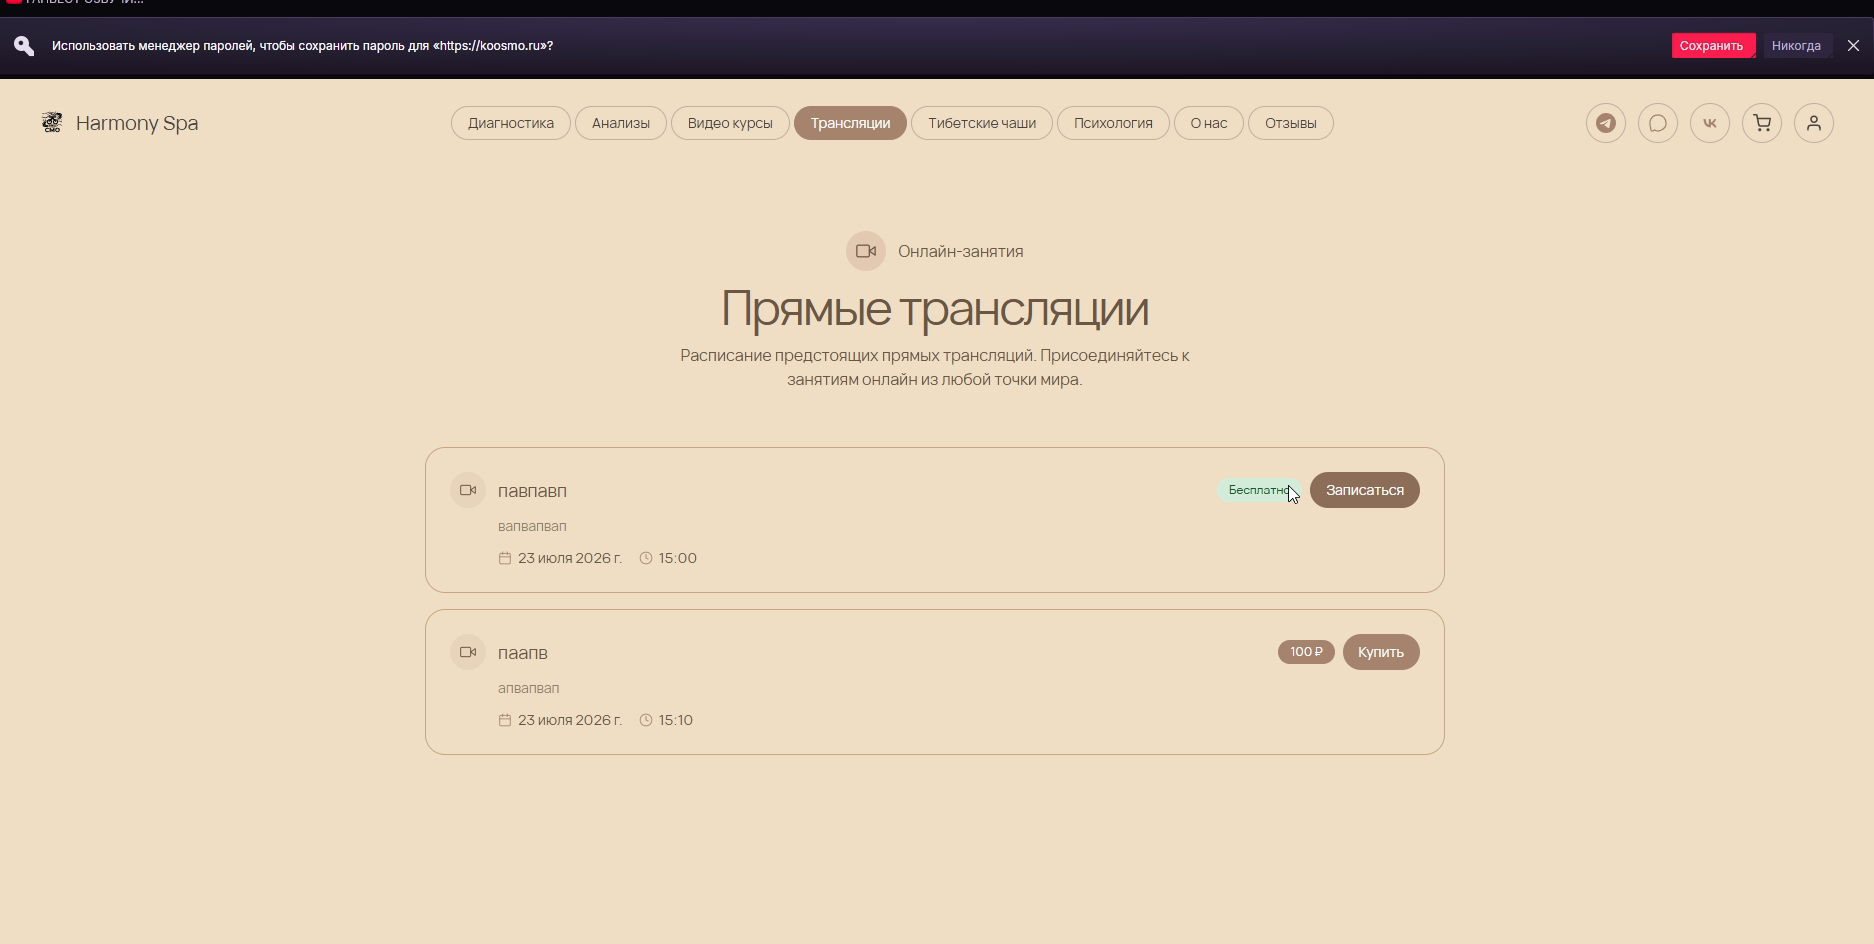
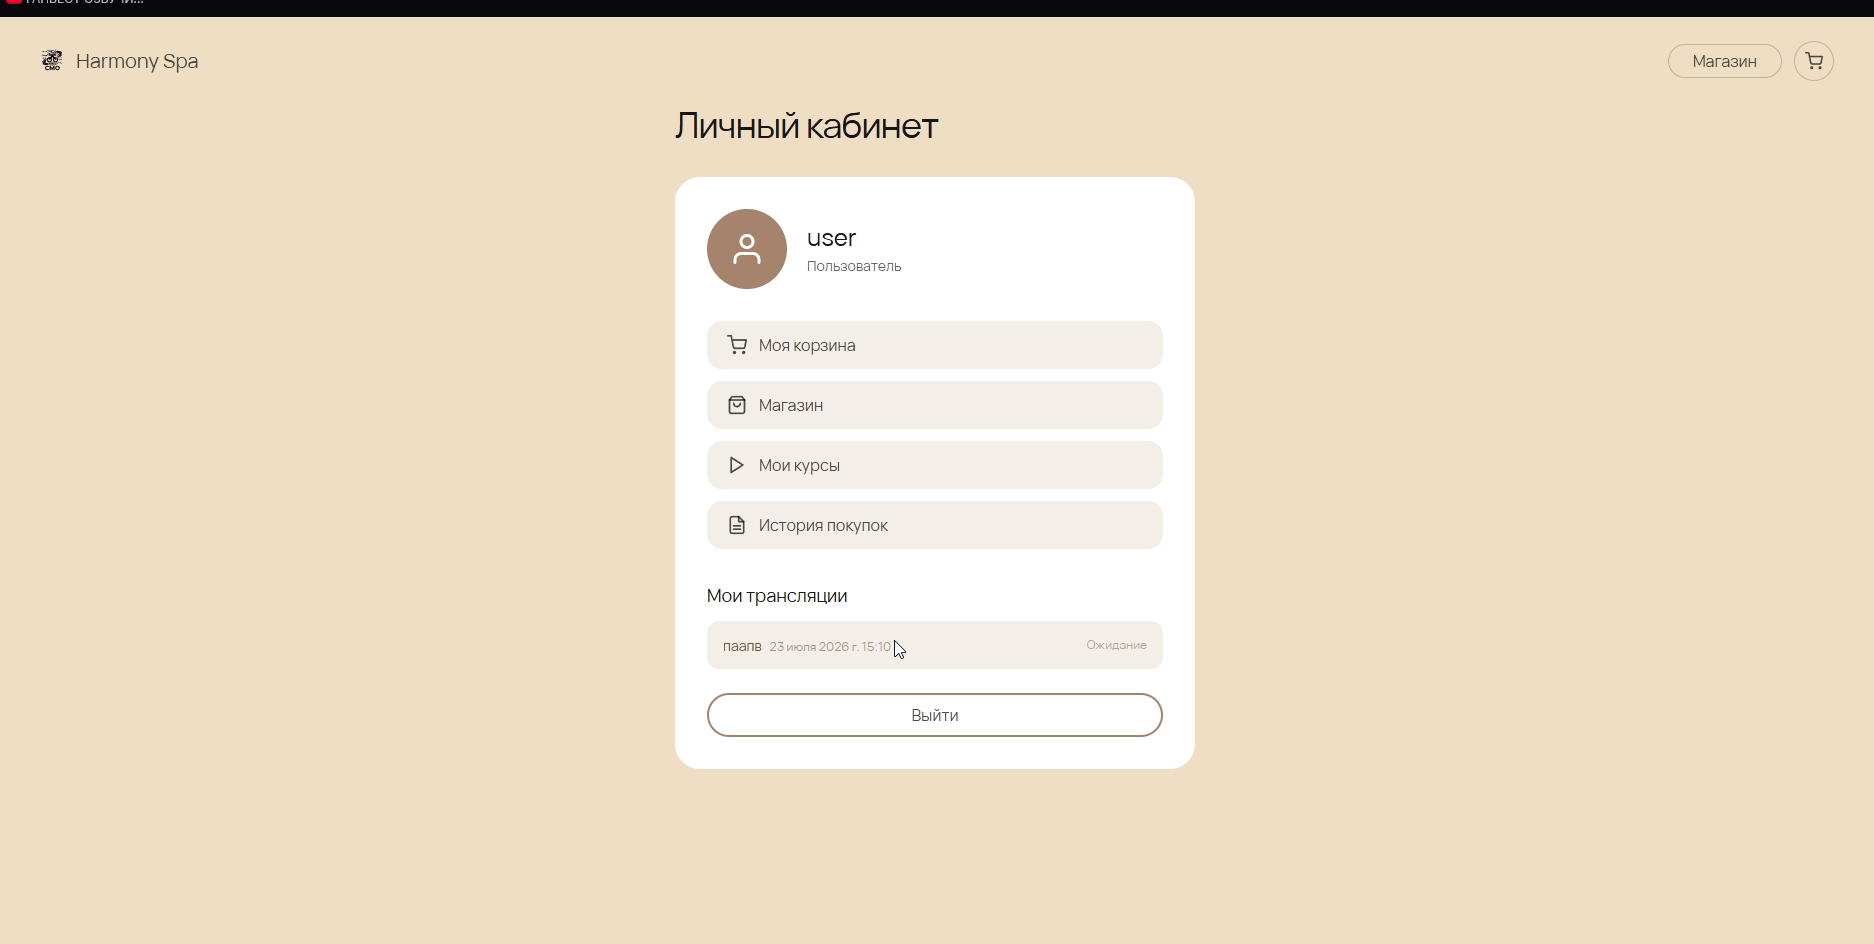
Koosmo: fix duplicated shots — real services grid, cabinet, schedule
t=64/104 frames landed on the streams page twice; re-extracted the
actual services grid (t=5) and the personal cabinet with a purchased
stream inside (t=124). Slide 5 now uses the user-supplied booking
direction picker; the "Гармония тела" about shot joins the gallery.

Generated with [Devin](https://devin.ai)

diff --git a/src/data/cases.ts b/src/data/cases.ts
@@ -397,7 +397,7 @@ export const CASES: CaseStudy[] = [
       {
         heading: "Расписание и запись к специалистам",
         text: "Через расписание клиент записывается на онлайн-приём к психологу — встреча проходит по видеоконференции внутри платформы, на консультацию массажиста по видео или на живую терапию в центре. Администратор в панели управляет всем этим хозяйством: трансляции и их цены, товары, лабораторию, пользователей, тесты диагностики и журнал действий.",
-        shot: "/cases/koosmo/admin.png",
+        shot: "/cases/koosmo/schedule.png",
         motion: "inbox",
         inboxTitle: "Записи · экосистема сайта",
         inboxCaption: "всё остаётся внутри платформы",
@@ -416,7 +416,7 @@ export const CASES: CaseStudy[] = [
       },
     ],
     gallery: [
-      "/cases/koosmo/services.png",
+      "/cases/koosmo/about.png",
       "/cases/koosmo/login.png",
       "/cases/koosmo/stream-new.png",
       "/cases/koosmo/admin.png",
